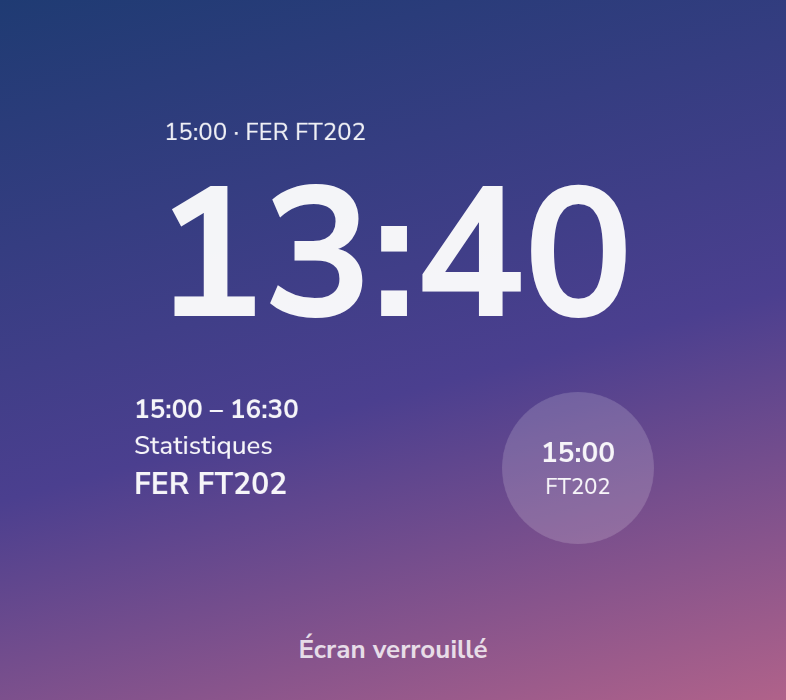
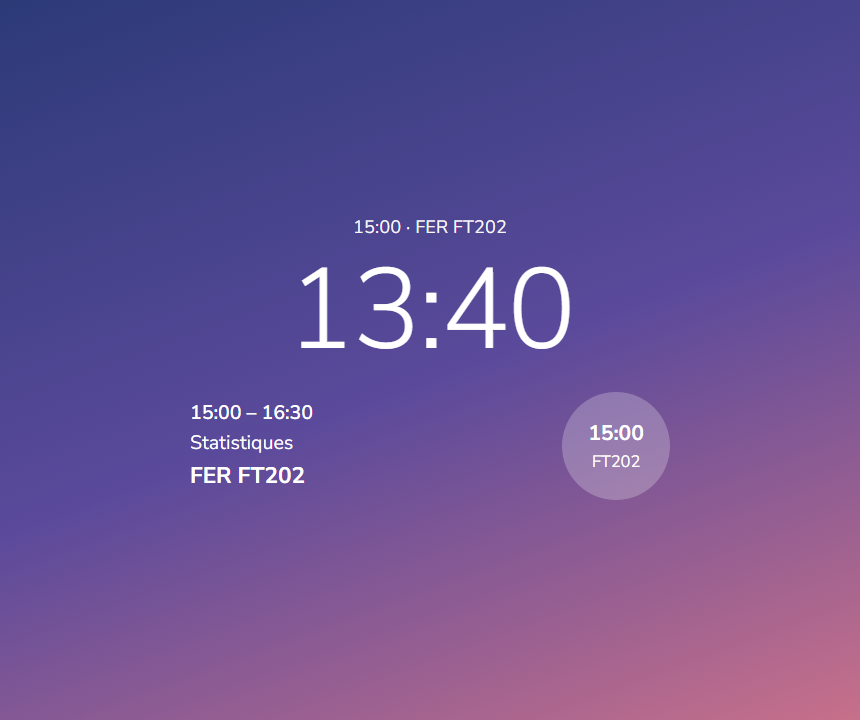
feat: add demo timetable, update check and date fixes
Trying the widget and shooting the README previews both required real credentials and leaked a real timetable. The `demo` parameter feeds fixed fake events through the same parsing and rendering path, with no network, calendar write, or notification.

- The update check compares the `VERSION` line against the one published on the repo, from the menu only: a widget has no UI to act on it.
- Parse the naive `2026-09-23T08:00:00` form component by component; a JavaScriptCore that reads it as UTC would shift every course.
- Require an entry to appear in every event before treating it as a group label when fewer than four courses are known; otherwise, a quiet week stops filtering and shows the promo name as the subject.
- Regenerate the previews: the old ones predate the system palette, the all-day banner, the three-course medium widget, and the now line. The preview page gained a shot mode so captures stay reproducible.

diff --git a/celcat-widget.js b/celcat-widget.js
@@ -15,6 +15,10 @@
 //  - Ajoute un widget Scriptable (grand conseillé) et choisis ce script.
 // ============================================================
 
+const VERSION = "1.1.0";         // version de ce script (comparée à celle du dépôt)
+const REPO = "https://github.com/Samito-05/cy-edt-widget";
+const REPO_RAW = "https://raw.githubusercontent.com/Samito-05/cy-edt-widget/main/celcat-widget.js";
+
 const BASE = "https://celcat-calendar.cyu.fr";
 const DAYS_AHEAD = 14;           // jours récupérés (couvre week-ends / vacances courtes)
 const FETCH_MIN = 15;            // en journée : l'emploi du temps est retéléchargé toutes les 15 min
@@ -80,6 +84,16 @@ const CACHE = fm.joinPath(fm.documentsDirectory(), "celcat_cache.json");
 
 // ---------- utilitaires ----------
 const pad = n => String(n).padStart(2, "0");
+
+// CELCAT renvoie "2026-09-23T08:00:00", sans fuseau : on lit les composants nous-mêmes
+// pour que ce soit toujours l'heure locale, quelle que soit la version de JavaScriptCore.
+// Une date qui porte un fuseau ("…Z", "…+02:00") est laissée à Date, qui sait la convertir.
+function parseDate(v) {
+  if (v instanceof Date) return v;
+  const m = String(v).match(/^(\d{4})-(\d{2})-(\d{2})(?:[T ](\d{2}):(\d{2})(?::(\d{2}))?)?$/);
+  if (!m) return new Date(v);
+  return new Date(+m[1], +m[2] - 1, +m[3], +(m[4] || 0), +(m[5] || 0), +(m[6] || 0));
+}
 const ymd = d => `${d.getFullYear()}-${pad(d.getMonth() + 1)}-${pad(d.getDate())}`;
 const hm = d => `${pad(d.getHours())}:${pad(d.getMinutes())}`;
 const enc = encodeURIComponent;
@@ -299,7 +313,7 @@ async function getEvents(force = false) {
     }
     if (!data) throw new Error("Connexion refusée (identifiants ?)");
     // Réponse vide alors qu'on avait des cours à venir → raté du serveur : on garde l'ancienne version
-    if (!data.length && cached && cached.data.filter(e => new Date(e.start) > new Date()).length >= 4)
+    if (!data.length && cached && cached.data.filter(e => parseDate(e.start) > new Date()).length >= 4)
       throw new Error("Réponse vide du serveur");
     const until = fetchWindow().end.getTime();
     writeCache({ at: Date.now(), fid: FID, until, data });   // succès → l'historique d'échecs est effacé
@@ -360,7 +374,10 @@ function candidates(e, category) {
 function frequentLines(data) {
   const count = {};
   data.forEach(e => new Set(candidates(e, "").map(cleanName)).forEach(l => count[l] = (count[l] || 0) + 1));
-  return new Set(Object.keys(count).filter(l => data.length >= 4 && count[l] / data.length >= 0.5));
+  // En semaine creuse (vacances, semaine d'examens) il reste peu de cours : on exige
+  // alors qu'un intitulé soit présent PARTOUT pour le considérer comme un groupe/promo.
+  const min = data.length >= 4 ? 0.5 : 1;
+  return new Set(Object.keys(count).filter(l => data.length >= 2 && count[l] / data.length >= min));
 }
 
 function parse(e, frequent) {
@@ -378,8 +395,8 @@ function parse(e, frequent) {
   module = module.replace(new RegExp(`^${esc}\\s*[-:]\\s*`), "");
 
   const type = TYPE_COLORS.find(t => t.re.test(category));
-  const start = new Date(e.start);
-  const end = e.end ? new Date(e.end) : new Date(start.getTime() + 3600000);
+  const start = parseDate(e.start);
+  const end = e.end ? parseDate(e.end) : new Date(start.getTime() + 3600000);
   // Journée entière (férié, vacances, journée d'intégration…) : pas d'horaire à afficher,
   // et surtout pas de rappel « dans 10 min » à minuit.
   const allDay = e.allDay === true || !e.end || (+end - +start) >= 20 * 3600000;
@@ -1139,15 +1156,94 @@ function buildNextWidget(events, fam, stale, error) {
   return w;
 }
 
+// ---------- mises à jour ----------
+// Compare la ligne VERSION du script à celle publiée sur GitHub. Appelé seulement
+// depuis le menu (jamais depuis un widget) : une seule requête, déclenchée à la main.
+function versionRank(v) {
+  return String(v).split(".").map(n => parseInt(n, 10) || 0);
+}
+
+function isNewer(remote, local) {
+  const a = versionRank(remote), b = versionRank(local);
+  for (let i = 0; i < Math.max(a.length, b.length); i++) {
+    if ((a[i] || 0) !== (b[i] || 0)) return (a[i] || 0) > (b[i] || 0);
+  }
+  return false;
+}
+
+async function checkUpdate() {
+  const r = request(REPO_RAW);
+  const src = await r.loadString();
+  const m = src.match(/const VERSION = "([^"]+)"/);
+  if (!m) throw new Error("Version introuvable sur GitHub.");
+  return { remote: m[1], newer: isNewer(m[1], VERSION) };
+}
+
+// ---------- démo ----------
+// Emploi du temps fictif, au format renvoyé par CELCAT : il traverse donc le même
+// parsing et le même rendu que les vraies données. Sert aux captures d'écran du
+// dépôt et à essayer le widget avant d'avoir ses identifiants.
+// Widget → Parameter : "demo", "demo semaine", "demo prochain", "demo 1"…
+function demoData() {
+  const monday = mondayOf(new Date());
+  const day = i => { const d = new Date(monday); d.setDate(d.getDate() + i); return d; };
+  const stamp = (d, h, m) => `${ymd(d)}T${pad(h)}:${pad(m)}:00`;
+  const mk = (id, i, [sh, sm], [eh, em], cat, mod, room, staff, note) => {
+    const d = day(i);
+    return {
+      id: "demo" + id, start: stamp(d, sh, sm), end: stamp(d, eh, em), allDay: false,
+      eventCategory: cat, modules: [mod], sites: ["FER"],
+      description: [cat, mod, "ING2 GSI", room ? `FER ${room} SALLE DE COURS 40p` : "", staff, note]
+                     .filter(Boolean).join("<br />"),
+    };
+  };
+  const events = [
+    mk(1, 0, [8, 30], [10, 0],  "CM", "I2GSIM07 - Statistiques", "AMPHI B", "MARTIN CLAIRE"),
+    mk(2, 0, [10, 15], [11, 45], "TD", "Économie I2GECO01",      "FT202", "DUBOIS PAUL"),
+    mk(3, 0, [13, 0], [14, 30], "TD", "Projet tutoré",           "FT310", "DA SILVA INES"),
+    mk(4, 1, [9, 0], [10, 30],  "CM", "Cybersécurité I2GCYB01",  "AMPHI A", "NGUYEN ANH"),
+    mk(5, 1, [10, 45], [12, 15], "TD", "IA : Théorie",           "FT202", "MARTIN CLAIRE"),
+    mk(6, 1, [14, 0], [15, 30], "TD", "Test logiciel I2GTST01",  "FT105", "BERNARD LUC"),
+    mk(7, 3, [8, 30], [10, 0],  "TD", "Économie I2GECO01",       "FT202", "DUBOIS PAUL"),
+    mk(8, 3, [10, 15], [11, 45], "CM", "Test logiciel I2GTST01", "FT105", "BERNARD LUC", "Annulé"),
+    mk(9, 3, [12, 0], [13, 30], "TD", "Anglais DIOANG3D",        "FT310", "SMITH JANE, LEROY EMMA"),
+    mk(10, 3, [15, 0], [16, 30], "TD", "I2GSIM07 - Statistiques", "FT202", "MARTIN CLAIRE"),
+    mk(11, 4, [8, 30], [10, 0], "TD", "IA : Théorie",            "FT202", "MARTIN CLAIRE"),
+    mk(12, 4, [13, 0], [14, 30], "TD", "Conception Systèmes",    "FT105", "NGUYEN ANH"),
+    mk(13, 4, [16, 45], [18, 0], "Examen", "Mathématiques",      "AMPHI B", "BERNARD LUC"),
+  ];
+  // Un cours cale sur l'heure de la capture : carte verte « En cours · fin … »
+  const now = new Date();
+  const from = new Date(now.getTime() - 20 * 60000);
+  const to = new Date(now.getTime() + 70 * 60000);
+  events.push({
+    id: "demo0", allDay: false,
+    start: stamp(now, from.getHours(), from.getMinutes()),
+    end: stamp(now, to.getHours(), to.getMinutes()),
+    eventCategory: "TD", modules: ["Anglais DIOANG3D"], sites: ["FER"],
+    description: "TD<br />Anglais DIOANG3D<br />ING2 GSI<br />FER FT310 SALLE DE COURS 40p<br />SMITH JANE",
+  });
+  // Jour férié (journée entière) en milieu de semaine
+  events.push({
+    id: "demo-ferie", allDay: true, start: ymd(day(2)), end: null,
+    eventCategory: "Férié", modules: ["Jour férié"], sites: [],
+    description: "Férié<br />Jour férié",
+  });
+  return events;
+}
+
 // ---------- main ----------
 // Paramètre du widget (appui long → Modifier le widget → Parameter) :
 //   vide ou 0   → jour actuel (ou prochain jour de cours)
 //   1, 2, 3…    → jours de cours suivants (pour une pile de widgets qu'on fait défiler)
 //   semaine     → vue semaine (grand widget) ; "semaine 1" → semaine suivante
 //   prochain    → uniquement le prochain cours et sa salle
+//   demo…       → emploi du temps fictif, sans réseau ("demo semaine", "demo prochain"…)
 // Écran verrouillé : affiche toujours le prochain cours et sa salle.
 let family = config.widgetFamily || "large";
-const param = String(args.widgetParameter || "").trim().toLowerCase();
+const rawParam = String(args.widgetParameter || "").trim().toLowerCase();
+let demo = /^d[ée]mo\b/.test(rawParam);              // "demo", "demo semaine", "demo prochain"…
+const param = rawParam.replace(/^d[ée]mo\s*/, "");
 const weekParam = param.match(/^(semaine|week)\s*\+?\s*(\d*)$/);
 let view = weekParam ? "week" : /^(prochain|next)$/.test(param) ? "next" : "day";
 let offset = weekParam ? (parseInt(weekParam[2], 10) || 0) : (parseInt(param, 10) || 0);
@@ -1161,9 +1257,16 @@ if (!config.runsInWidget) {
     ["Aperçu vue semaine",                { family: "large",  view: "week" }],
     ["Aperçu prochain cours",             { family: "small",  view: "next" }],
     ["Aperçu écran verrouillé",           { family: "accessoryRectangular", view: "next" }],
+    ["Démo · grand widget",               { family: "large",  view: "day",  demo: true }],
+    ["Démo · widget moyen",               { family: "medium", view: "day",  demo: true }],
+    ["Démo · petit widget",               { family: "small",  view: "day",  demo: true }],
+    ["Démo · vue semaine",                { family: "large",  view: "week", demo: true }],
+    ["Démo · prochain cours",             { family: "small",  view: "next", demo: true }],
+    ["Démo · écran verrouillé",           { family: "accessoryRectangular", view: "next", demo: true }],
     ["Changer mes identifiants",          { creds: true }],
     ["Tester les notifications",          { testNotif: true }],
     ["Données brutes (debug)",            { debug: true }],
+    ["Vérifier les mises à jour",         { update: true }],
   ];
   const menu = new Alert();
   menu.title = "Widget CELCAT";
@@ -1183,6 +1286,22 @@ if (!config.runsInWidget) {
     await n.schedule();
     Script.complete(); return;
   }
+  if (choice.update) {
+    const a = new Alert();
+    a.title = "Mise à jour";
+    try {
+      const { remote, newer } = await checkUpdate();
+      a.message = newer
+        ? `Version ${remote} disponible (tu as la ${VERSION}).
+Copie le script depuis ${REPO} pour mettre à jour.`
+        : `Le script est à jour (version ${VERSION}).`;
+    } catch (e) {
+      a.message = "Vérification impossible : " + e.message;
+    }
+    a.addAction("OK");
+    await a.present();
+    Script.complete(); return;
+  }
   if (choice.debug) {
     try {
       const { data } = await getEvents(true);
@@ -1198,11 +1317,15 @@ if (!config.runsInWidget) {
   family = choice.family || "large";
   view = choice.view || "day";
   offset = 0;
+  demo = !!choice.demo;
 }
 
 let widget;
 try {
-  const res = await getEvents(!config.runsInWidget);   // dans l'app : toujours à jour
+  // Démo : données fictives, aucun appel réseau, rien d'écrit dans le calendrier,
+  // aucune notification envoyée (res.fetched reste faux).
+  const res = demo ? { data: demoData(), stale: false, fetched: false }
+                   : await getEvents(!config.runsInWidget);   // dans l'app : toujours à jour
   const { data, stale, error } = res;
   const events = parseAll(data);
   // Nouvelles données → notifications de changement, rappels, calendrier

diff --git a/docs/preview.html b/docs/preview.html
@@ -227,6 +227,12 @@
   footer { margin-top: 44px; padding-top: 18px; border-top: 1px solid var(--page-line); color: var(--page-sub); font-size: 14px; }
   footer a { color: inherit; }
 
+  /* Mode capture : ?shot=light|dark|lock — un seul panneau, plein cadre, pour les PNG du README */
+  body.shot { display: flex; align-items: center; justify-content: center; min-height: 100vh; }
+  body.shot .wrap { max-width: none; padding: 0; }
+  body.shot .intro, body.shot .panel-title, body.shot footer { display: none; }
+  body.shot .panel { border-radius: 0; padding: 48px 44px; overflow: visible; background: none; }
+
   @media (max-width: 1500px) { :root { --u: 1.5px; } }
   @media (max-width: 760px) { :root { --u: 1.1px; } .panel { padding: 22px 18px; } }
   @media (prefers-reduced-motion: reduce) { * { animation: none !important; transition: none !important; } }
@@ -239,10 +245,10 @@
     <p>Emploi du temps fictif : cours, salles et enseignants inventés.</p>
   </header>
 
-  <div class="panel-title"><h2>Mode clair</h2><span>jeudi 24 septembre, 13:40</span></div>
+  <div class="panel-title"><h2>Mode clair</h2><span>jeudi 24 septembre, 12:20 — un cours en vert « en cours »</span></div>
   <section class="panel light" id="panel-light"></section>
 
-  <div class="panel-title"><h2>Mode sombre</h2><span>les mêmes widgets, thème sombre de l'iPhone</span></div>
+  <div class="panel-title"><h2>Mode sombre</h2><span>13:40, entre deux cours — trait rouge sur l'heure courante</span></div>
   <section class="panel dark" id="panel-dark"></section>
 
   <div class="panel-title"><h2>Écran verrouillé</h2><span>bandeau au-dessus de l'heure, rectangle et rond</span></div>
@@ -258,7 +264,7 @@
   const TYPE = { CM: "#FF3B30", TD: "#0A84FF", TP: "#34C759", Examen: "#FF9500" };
 
   // Jeudi 24 septembre, il est 13:40 : Anglais vient de finir, Statistiques arrive.
-  const NOW = 13 * 60 + 40;
+  let NOW = 12 * 60 + 20;          // heure simulée, fixée par panneau
   const DAY = [
     { cat: "TD", mod: "Économie",      start: "08:30", end: "10:00", staff: "DUBOIS PAUL", room: "FER FT202" },
     { cat: "CM", mod: "Test logiciel", start: "10:15", end: "11:45", staff: "", room: "", cancelled: true },
@@ -354,7 +360,7 @@
 
   // ---------- vue journée avec férié (grand widget) ----------
   function buildHoliday(scope) {
-    const w = widget(scope, "large");
+    const w = widget(scope, "medium");
     const head = el("div", "head");
     head.append(el("span", "label", "Mercredi 23 septembre"));
     w.append(head);
@@ -528,7 +534,8 @@
     return t;
   }
 
-  function buildPanel(id, scope) {
+  function buildPanel(id, scope, nowMin) {
+    NOW = nowMin;                    // les vues se calculent par rapport à cette heure
     const panel = document.getElementById(id);
     const row = el("div", "row");
     row.append(tile(buildDay(scope), "Journée"));
@@ -544,8 +551,11 @@
     panel.append(row2);
   }
 
-  buildPanel("panel-light", "light");
-  buildPanel("panel-dark", "dark");
+  // ?shot=<panneau> : on ne garde que celui-là, pour la capture
+  const shot = new URLSearchParams(location.search).get("shot");
+
+  buildPanel("panel-light", "light", 12 * 60 + 20);   // pendant l'anglais : cartes "en cours"
+  buildPanel("panel-dark", "dark", 13 * 60 + 40);     // entre deux cours : trait rouge dans la semaine
 
   // écran verrouillé
   const lock = document.getElementById("panel-lock");
@@ -560,4 +570,16 @@
   row.append(rect, circ);
   ls.append(row);
   lock.append(ls);
+
+  if (shot) {
+    const keep = document.getElementById("panel-" + shot);
+    if (keep) {
+      // le fond du panneau devient celui de la page : capturé avant de basculer en mode capture
+      const bg = getComputedStyle(keep);
+      const fill = bg.backgroundImage !== "none" ? bg.backgroundImage : bg.backgroundColor;
+      document.body.classList.add("shot");
+      document.querySelectorAll(".panel").forEach(p => { if (p !== keep) p.remove(); });
+      document.body.style.background = fill;
+    }
+  }
 </script>

diff --git a/test/widget.test.js b/test/widget.test.js
@@ -298,6 +298,54 @@ const ok = (name, cond, extra = "") => { if (cond) { pass++; console.log("  OK  
      JSON.stringify(mt));
   ok("salles affichées", mt.some(t => t.includes("FT202")) && mt.some(t => t.includes("FT305")), JSON.stringify(mt));
 
+  // --- 12. mode démo
+  console.log("\n[12] mode démo");
+  for (const [fam, p] of [["large", "demo"], ["large", "demo semaine"], ["small", "demo prochain"],
+                          ["medium", "demo"], ["accessoryRectangular", "demo"]]) {
+    global.config.widgetFamily = fam; global.args.widgetParameter = p;
+    global.netCalls = []; global.calendarOps = []; global.notifications = [];
+    NET = {};                                    // tout appel réseau échouerait
+    fsn.rmSync(CACHE, { force: true });
+    let err = null;
+    try { await load(); } catch (e) { err = e; }
+    ok(`démo ${fam} "${p}"`, !err, err && err.message);
+    ok("  aucun réseau", global.netCalls.length === 0, JSON.stringify(global.netCalls));
+    ok("  rien écrit (calendrier, notifs, cache)",
+       !global.calendarOps.length && !global.notifications.length && !fsn.existsSync(CACHE),
+       JSON.stringify([global.calendarOps, global.notifications]));
+  }
+  global.config.widgetFamily = "large"; global.args.widgetParameter = "demo";
+  await load();
+  const dt = global.texts();
+  ok("démo : cours affichés", dt.some(t => /Statistiques|Anglais|Économie/.test(t)), JSON.stringify(dt).slice(0, 200));
+
+  // --- 13. dates sans fuseau lues en heure locale
+  console.log("\n[13] lecture des dates");
+  global.args.widgetParameter = "";
+  const at8 = new Date(); at8.setHours(8, 30, 0, 0);
+  const iso830 = `${at8.getFullYear()}-${String(at8.getMonth() + 1).padStart(2, "0")}-${String(at8.getDate()).padStart(2, "0")}T08:30:00`;
+  NET = { "/Home/GetCalendarData": JSON.stringify([{
+    id: "z1", start: iso830, end: iso830.replace("T08:30", "T10:00"), allDay: false,
+    eventCategory: "TD", modules: ["Statistiques"], sites: ["FER"],
+    description: "TD<br />Statistiques<br />FER FT202 SALLE DE TD 40p",
+  }]) };
+  fsn.rmSync(CACHE, { force: true });
+  await load();
+  ok("08:30 affiché tel quel", global.texts().includes("08:30"), JSON.stringify(global.texts()));
+
+  // --- 14. comparaison de versions
+  console.log("\n[14] mises à jour");
+  const widgetSrc = fsn.readFileSync(pathn.join(__dirname, "..", "celcat-widget.js"), "utf8");
+  const version = (widgetSrc.match(/const VERSION = "([^"]+)"/) || [])[1];
+  ok("VERSION présente", !!version, version);
+  const cmp = new Function(widgetSrc.slice(widgetSrc.indexOf("function versionRank"),
+                                           widgetSrc.indexOf("async function checkUpdate")) +
+                           "return { versionRank, isNewer };")();
+  ok("1.2.0 > 1.1.0", cmp.isNewer("1.2.0", "1.1.0"));
+  ok("1.1.0 = 1.1.0 → pas de mise à jour", !cmp.isNewer("1.1.0", "1.1.0"));
+  ok("1.10.0 > 1.9.0 (comparaison numérique)", cmp.isNewer("1.10.0", "1.9.0"));
+  ok("1.0.9 < 1.1.0", !cmp.isNewer("1.0.9", "1.1.0"));
+
   console.log(`\n${pass} OK, ${fail} FAIL`);
   process.exit(fail ? 1 : 0);
 })();

diff --git a/README.md b/README.md
@@ -17,7 +17,7 @@ Tes cours directement sur l'écran d'accueil : horaires, salles, type de cours, 
 
 </details>
 
-*Aperçus réalisés avec des données fictives : cours, salles et enseignants inventés.*
+*Aperçus réalisés avec des données fictives : cours, salles et enseignants inventés. Page source : [`docs/preview.html`](docs/preview.html).*
 
 ---
 
@@ -57,8 +57,20 @@ Appui long sur le widget → **Modifier le widget** → champ `Parameter` :
 | `semaine` | Vue semaine (grand widget) |
 | `semaine 1` | Semaine suivante (`semaine 2`, etc.) |
 | `prochain` | Uniquement le prochain cours et sa salle |
+| `demo` | Emploi du temps fictif, sans réseau (`demo semaine`, `demo prochain`, `demo 1`… fonctionnent aussi) |
 
 Sur l'**écran verrouillé**, le widget affiche toujours le prochain cours et sa salle, quel que soit le paramètre.
+
+## Mode démo
+
+Le script embarque un emploi du temps fictif : aucun identifiant, aucun appel réseau, rien d'écrit dans le calendrier, aucune notification. De quoi essayer le widget avant de se connecter — et faire des captures sans exposer son vrai planning.
+
+- Dans l'app : lancer le script → entrées **« Démo · … »** (grand, moyen, petit, semaine, prochain cours, écran verrouillé).
+- Sur l'écran d'accueil : appui long → **Modifier le widget** → `Parameter` = `demo` (ou `demo semaine`, `demo prochain`…).
+
+## Mises à jour
+
+Le script porte un numéro de version (`const VERSION` en haut du fichier). Le menu propose **« Vérifier les mises à jour »** : il compare cette version à celle publiée sur le dépôt et indique s'il faut recopier le script. Aucune vérification n'est faite depuis un widget.
 
 ## Réglages
 
@@ -78,6 +90,7 @@ Sur l'**écran verrouillé**, le widget affiche toujours le prochain cours et sa
 | `SYNC_CALENDAR` | `true` | Copier les cours dans le calendrier iPhone |
 | `CALENDAR_NAME` | `"Cours CY"` | Nom du calendrier créé |
 | `THEME` | `"auto"` | `"auto"`, `"dark"` ou `"light"` |
+| `MAX_REMINDERS` | `30` | Plafond de rappels en attente (iOS en autorise 64 pour tout Scriptable) |
 | `RENAME` | `{}` | Renommer une matière : `"I2GSIM07": "Statistiques"` |
 | `TYPE_COLORS` | — | Couleurs par type de cours (1re règle qui correspond) |
 
@@ -86,6 +99,8 @@ Sur l'**écran verrouillé**, le widget affiche toujours le prochain cours et sa
 Lancer le script depuis Scriptable ouvre un menu :
 
 - aperçus (grand / moyen / petit widget, vue semaine, prochain cours, écran verrouillé) ;
+- **Démo · …** : les mêmes aperçus avec l'emploi du temps fictif ;
+- **Vérifier les mises à jour** ;
 - **Changer mes identifiants** ;
 - **Tester les notifications** (déclenche la demande d'autorisation iOS) ;
 - **Données brutes (debug)** : JSON des premiers cours, utile pour comprendre un affichage bizarre.
